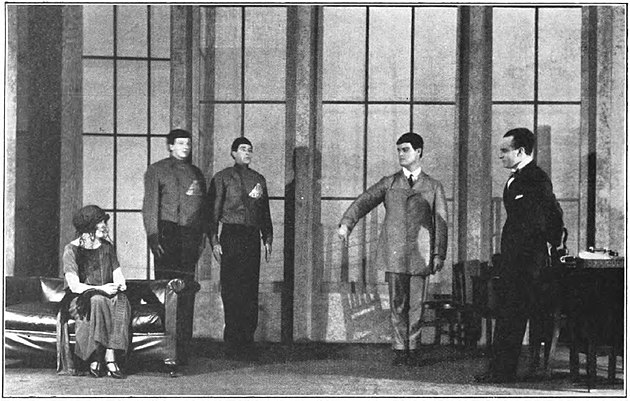
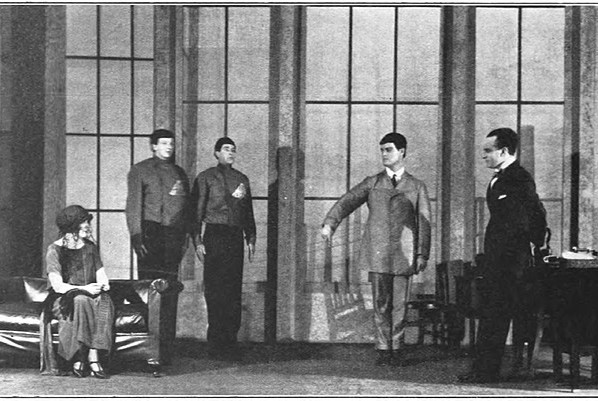
Section Cleaning
Cleaned individual sections to actually work right. Edited images to a 3:2 aspect ratio for page clarity. Added to @media to make the grids display vertically on narrower screens.

diff --git a/index.html b/index.html
@@ -6,16 +6,19 @@
     <title>Robots in Media</title>
     <link rel="stylesheet" href="css/reset.min.css">
     <link rel="stylesheet" href="css/custom.css">
+    <link rel="preconnect" href="https://fonts.googleapis.com">
+    <link rel="preconnect" href="https://fonts.gstatic.com" crossorigin>
+    <link href="https://fonts.googleapis.com/css2?family=Geo:ital@0;1&family=Press+Start+2P&display=swap" rel="stylesheet">
 </head>
 <body>
     <nav>
         <div class="logo">
-            <h1>Robots in Media</h1>
+            <h1 class="pixel-text">Robots in Media</h1>
         </div>
         <div class="links">
-            <a href="#">One</a>
-            <a href="#">Two</a>
-            <a href="#">Three</a>
+            <a href="#">Coining the Term</a>
+            <a href="#">Pre-Mainstream</a>
+            <a href="#">Mainstream</a>
         </div>
     </nav>
     <header>
@@ -23,24 +26,38 @@
         <h1>of Robots in Media</h1>
     </header>
     <main>
-        <div>
-            <h2>Coining the Term</h2>
-            <p>Take a look back at 1921, at the first instance of the word "robot." Karl Capek and his play, Rossum's Universal Robots, took existing ideas and turned them into the machines we see today. His play, which features robots realizing their own strength and autonomy in relation to their human masters.</p>
-            <img src="img/RUR.jpg" alt="Rossum's Universal Robots">
-        </div>
-         <div>
-            <h2>Pre-Mainstream</h2>
-            <p>Before the likes of Star Wars and Terminator brought robots to a wider audience, a number of sci-fi authors were speculating about the concept of autonomous machines. Today, Asimov's laws of robotics and Phillip K Dick's Do Androids Dream of Electric Sheep are foundational touchstones for robots in media.</p>
-            <img src="img/asimov.jpg" alt="Asimov's I, Robot">
-        </div>
-        <div>
-            <h2>Mainstream</h2>
-            <p>Today, robots are ubiquitous in sci-fi and fantasy, but what exactly defines a robot when they're so omnipresent? Here, we take a look at the most common tropes and ideas that make up robots in a modern sense, and how those interpretations became so popular</p>
-            <img src="img/c3po.jpg" alt="C-3PO from the Star Wars movies">
-        </div>
+        <section class="odd">
+            <div class="visual">
+                <img src="img/RUR.jpg" alt="Rossum's Universal Robots">
+            </div>
+            <div class="text">
+                <h2>Coining the Term</h2>
+                <p>Take a look back at 1921, at the first instance of the word "robot." Karl Capek and his play, Rossum's Universal Robots, took existing ideas and turned them into the machines we see today. His play, which features robots realizing their own strength and autonomy in relation to their human masters.</p>
+                <a class="more-links" href="#">More</a>
+            </div>
+        </section>
+        <section class="even">
+            <div class="text">
+                <h2>Pre-Mainstream</h2>
+                <p>Before the likes of Star Wars and Terminator brought robots to a wider audience, a number of sci-fi authors were speculating about the concept of autonomous machines. Today, Asimov's laws of robotics and Phillip K Dick's Do Androids Dream of Electric Sheep are foundational touchstones for robots in media.</p>
+                <a class="more-links" href="#">More</a>
+            </div>
+                <div class="visual">
+                <img src="img/asimovedit.jpg" alt="Asimov's I, Robot">
+            </div>
+        </section>
+        <section class="odd">
+            <div class="visual">
+                <img src="img/c3po.jpg" alt="C-3PO from the Star Wars movies">
+            </div>
+            <div class="text">
+                <h2>Mainstream</h2>
+                <p>Today, robots are ubiquitous in sci-fi and fantasy, but what exactly defines a robot when they're so omnipresent? Here, we take a look at the most common tropes and ideas that make up robots in a modern sense, and how those interpretations became so popular</p>
+            </div>
+        </section>
     </main>
     <footer>
-        <!--What goes here???-->
+        <p>2025 Erin O'Brien</p>
     </footer>
 </body>
 </html>

diff --git a/css/custom.css b/css/custom.css
@@ -1,10 +1,6 @@
 html {
     font-size: 62.5%;
 }
-img {
-    width: 39%;
-    height: auto;
-}
 body {
     color: #444;
     font-size: 1.6rem;
@@ -15,7 +11,7 @@ body {
 nav, footer {
     background-color: #610303;
     color: #F7F7F7;
-    
+    max-width: 78vw;
     padding: 1em;
     margin-left: auto;
     margin-right: auto;
@@ -26,7 +22,7 @@ nav {
     align-items: center;
 }
 nav h1 {
-    font-size: 2.8rem;
+    font-size: 2.4rem;
     font-weight: 600;
 }
 .links a {
@@ -39,6 +35,14 @@ svg {
     fill: currentColor;
     pointer-events: none;
 }
+h1, h2 {
+    font-family: "Geo", serif;
+    font-weight: 600;
+    font-style: normal;
+}
+h2 {
+    font-size: 2em;
+}
 header {
     margin-top: 4em;
     margin-bottom: 4em;
@@ -48,28 +52,50 @@ header {
 header h1 {
     display: flex;
     justify-content: center;
-    font-size: 6rem;
+    font-size: 8rem;
     font-weight: 600;
     color: #F7F7F7;
 }
-main div {
-    width: 1000px;
-    height: 256px;
-    margin-left: auto;
-    margin-right: auto;
-    margin-top: 2em;
-    margin-bottom: 2em;
+main {
+    max-width: 78vw;
+    margin: auto;
+}
+section {
+    display: grid;
     background-color:#F7F7F7;
+    margin: 3rem auto;
+    grid-gap: 3rem;
+}
+.odd {
+    grid-template-columns: 8fr 4fr;
+}
+.even {
+    grid-template-columns: 4fr 8fr;
+}
+.text {
+    display: flex;
+    flex-direction: column;
+    justify-content: center;
 }
 main div h2 {
     font-size: 2em;
 }
-main div img {
-    float: right;
+.pixel-text {
+    font-family: "Press Start 2P", serif;
+    font-weight: 400;
+    font-style: normal;
 }
+  
 @media screen and (max-width: 768px) {
     nav {
         flex-direction: column;
         gap: 2rem;
+        width: auto;
+    }
+    section.even, section.odd {
+        grid-template-columns: 1fr;
+    }
+    section.even div.visual {
+        order: -1;
     }
 }
